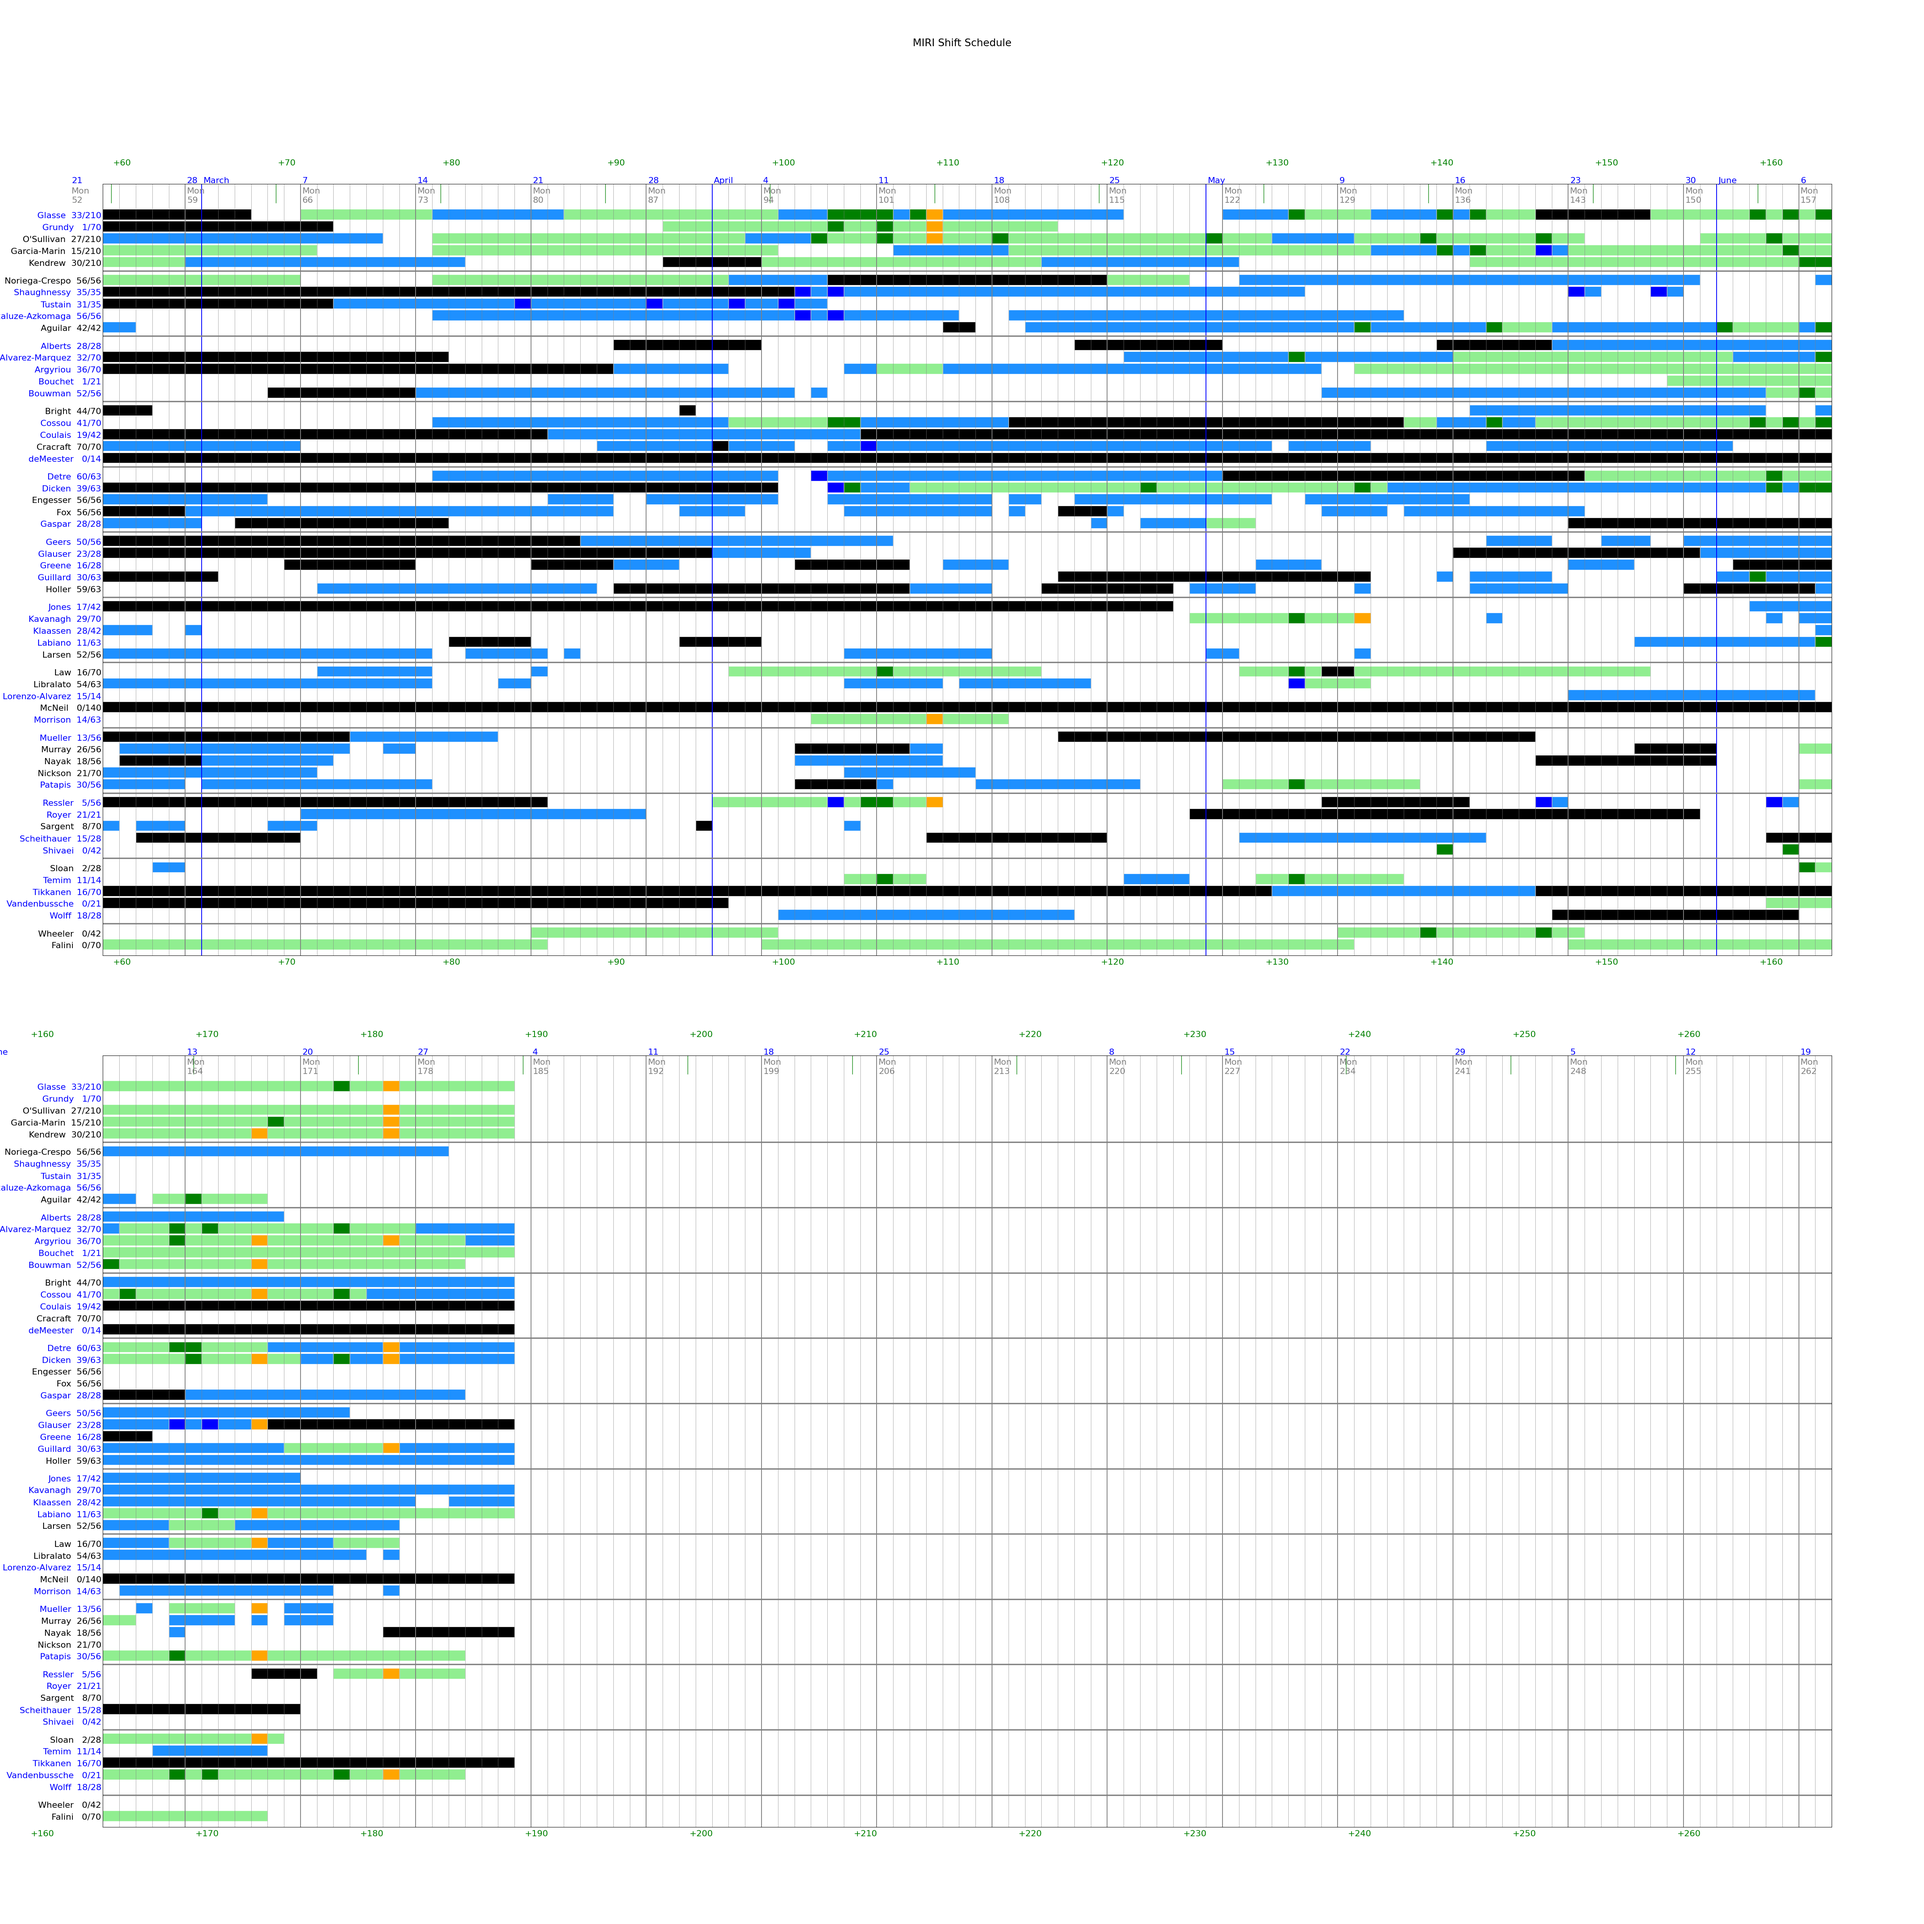
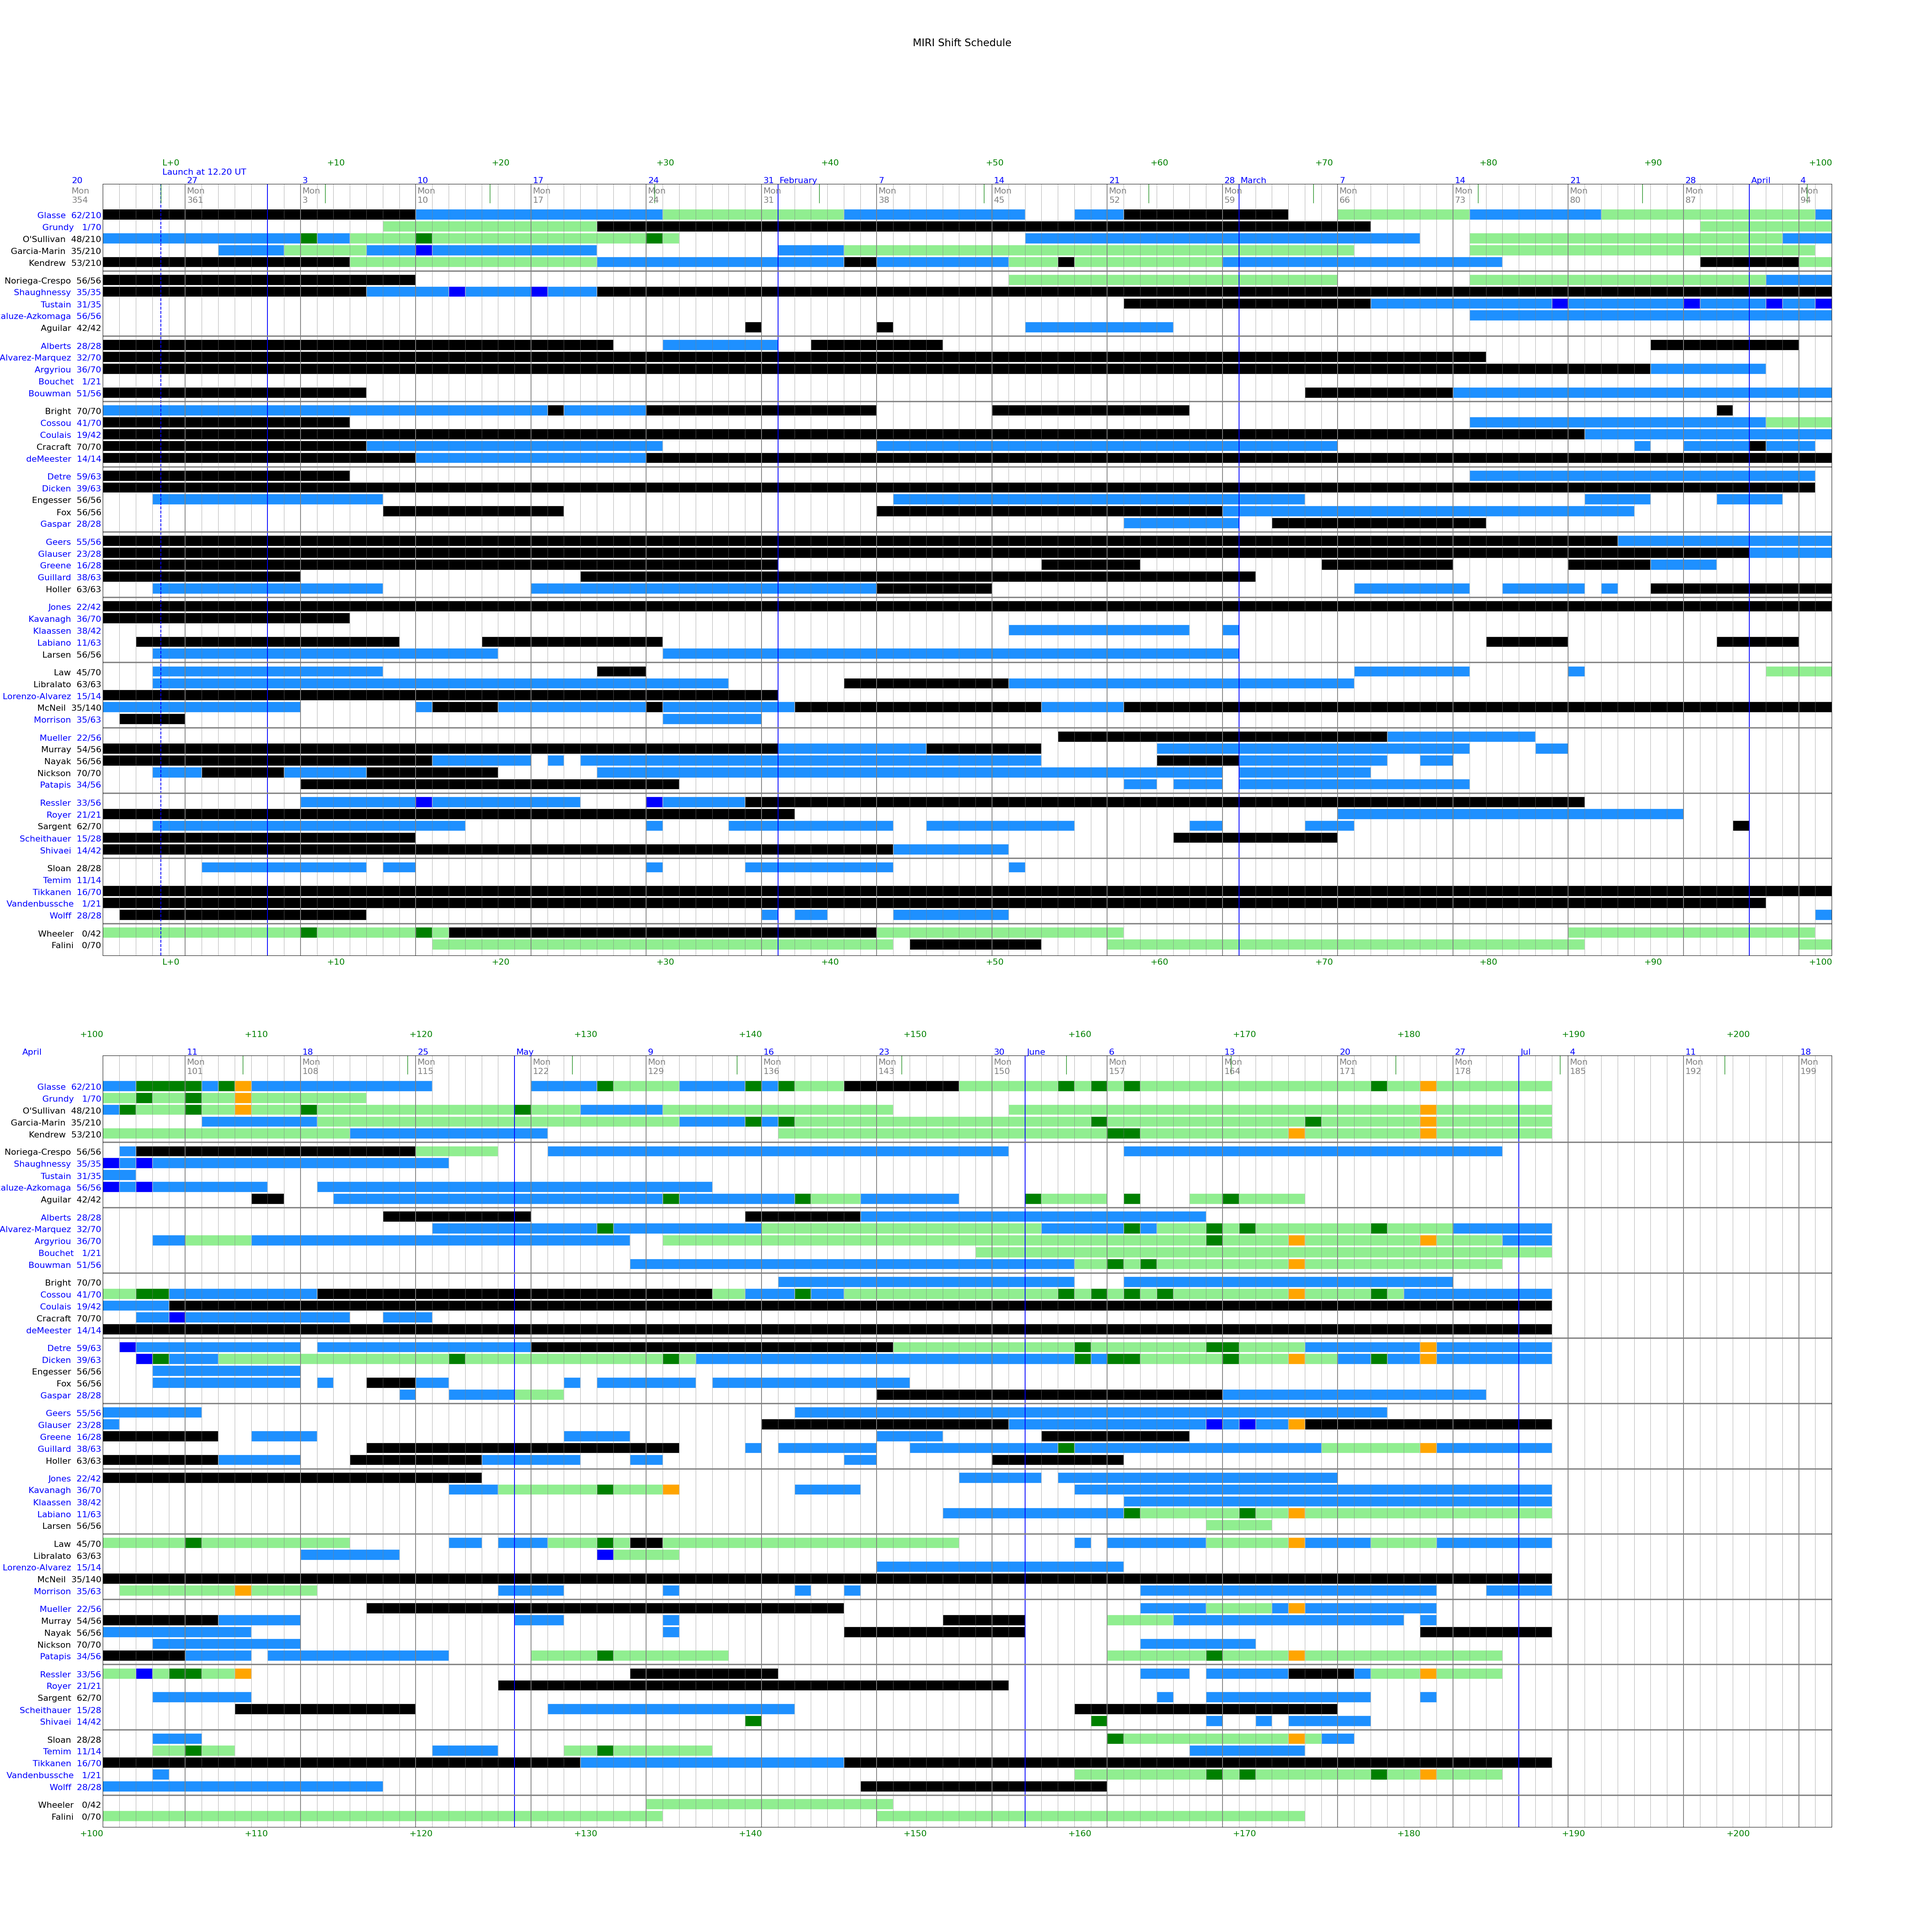
12/3/22 - Jane analysis start date back to 7/4/22 - Also, spotted (and mitigated) a bug in the calendar display which was double plotting early CARs onto the end of commissioing. Needs a full fix.

Changed region(s): [[0.0312, 0.0936, 0.9672, 0.4992], [0.0312, 0.5616, 0.8112, 0.9672]]

diff --git a/source/shift_plan.py b/source/shift_plan.py
@@ -19,7 +19,7 @@ class ShiftPlan:
                    'Jul', 'Aug', 'Sep', 'Oct', 'November', 'December']
     launchyear, launchmonth, launchdate, launchhour = 2021, 12, 25, 12.20
     launchdate_last_monday = 13             # Date of month of the last Monday before launch
-    start_md, end_md = 60, 190
+    start_md, end_md = -3, 190
     n_days = end_md - start_md + 1
     console_rota = []
     free = None
@@ -396,7 +396,7 @@ class ShiftPlan:
         if is_analysis:
             link_colour, title = 'green', 'Analysis/Support Rota'
 
-        n_panes, xrange, yrange = 2, 70, 105         # Calendar; 3 panes, 105 rows, 70 days/plot
+        n_panes, xrange, yrange = 3, 70, 105         # Calendar; 3 panes, 105 rows, 70 days/plot
         fig, axs = ShiftPlan._plot_calendar_grid(n_panes, xrange, yrange)
         fig.suptitle(title)
 

diff --git a/source/timeliner.py b/source/timeliner.py
@@ -63,10 +63,9 @@ ShiftPlan.test_rota(rota)
 a_rota = ShiftPlan.build_analysis_rota()
 a_rota = ShiftPlan.tidy_rota(a_rota)
 
-date_tag = '220311'
-ShiftPlan.plot_rota(a_rota, 'analysis_rota' + date_tag, is_analysis=True)
-ShiftPlan.plot_staff_schedules(name='staff_calendar' + date_tag + '.png', show_greyout=False)
-ShiftPlan.plot_rota(rota, 'moc_rota' + date_tag)
+ShiftPlan.plot_rota(a_rota, 'analysis_rota', is_analysis=True)
+ShiftPlan.plot_staff_schedules(name='staff_calendar.png', show_greyout=False)
+ShiftPlan.plot_rota(rota, 'moc_rota')
 
 ShiftPlan.print(to_csv=True)
 
